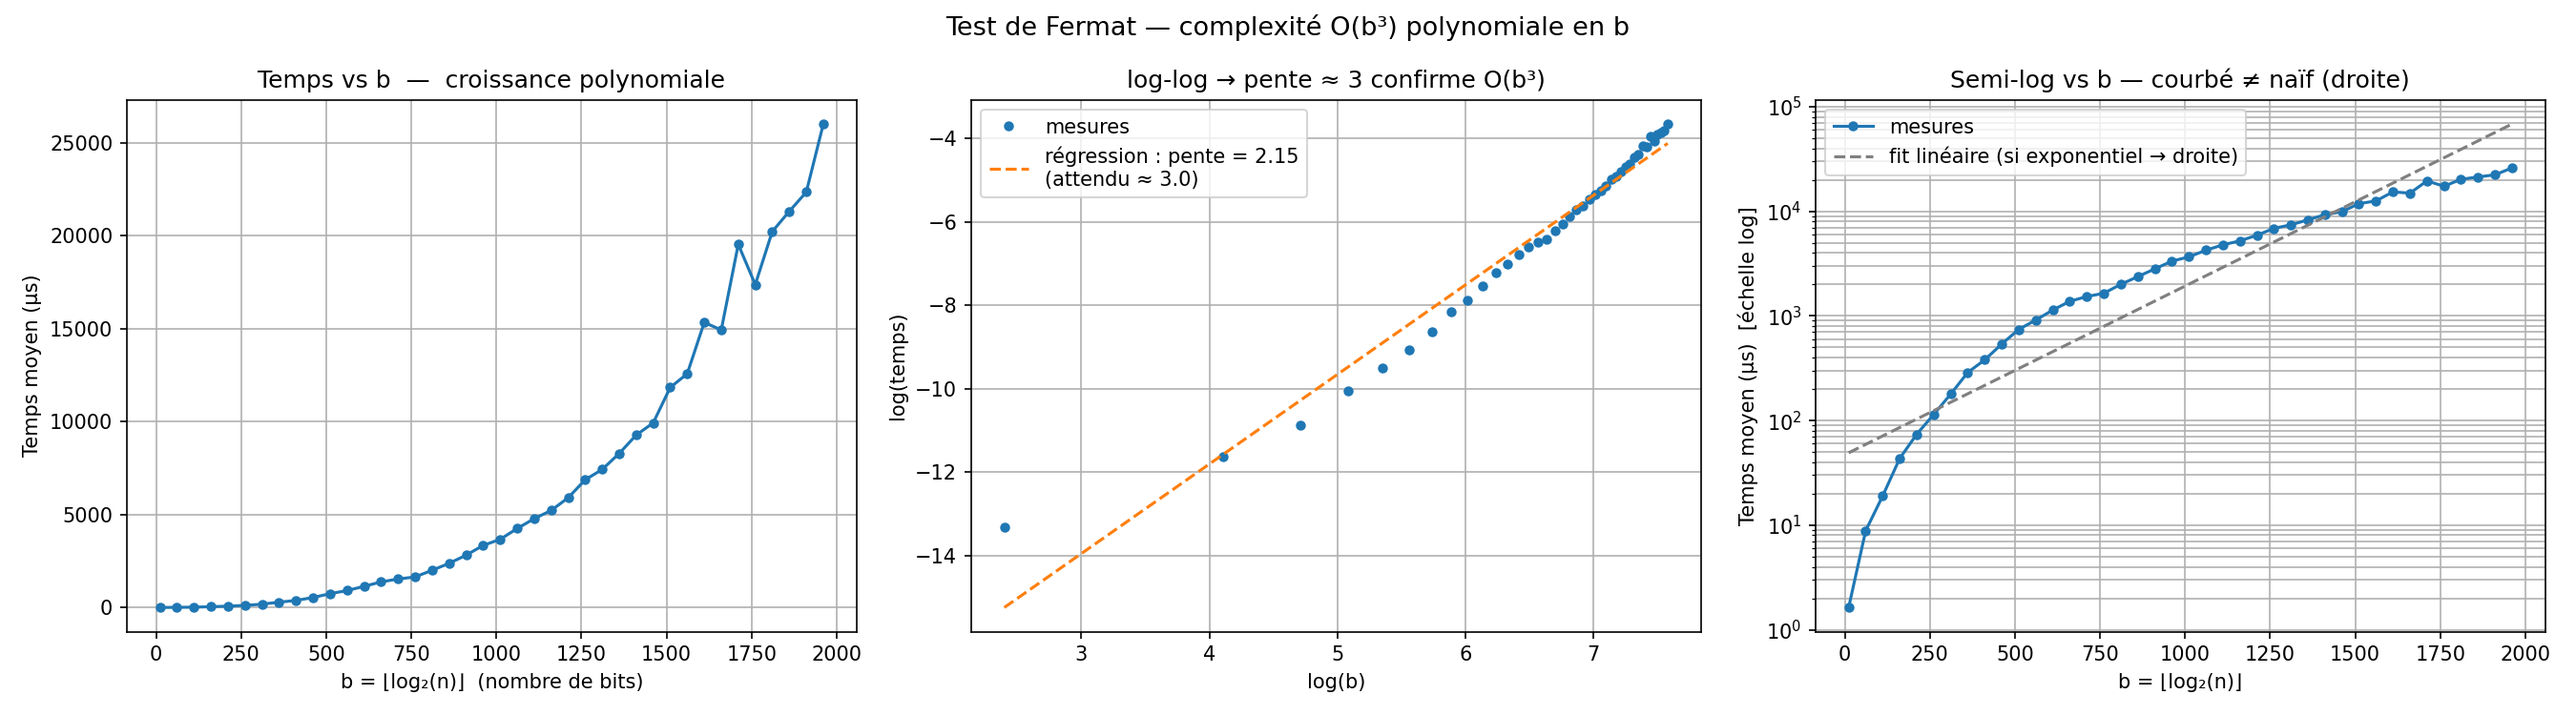
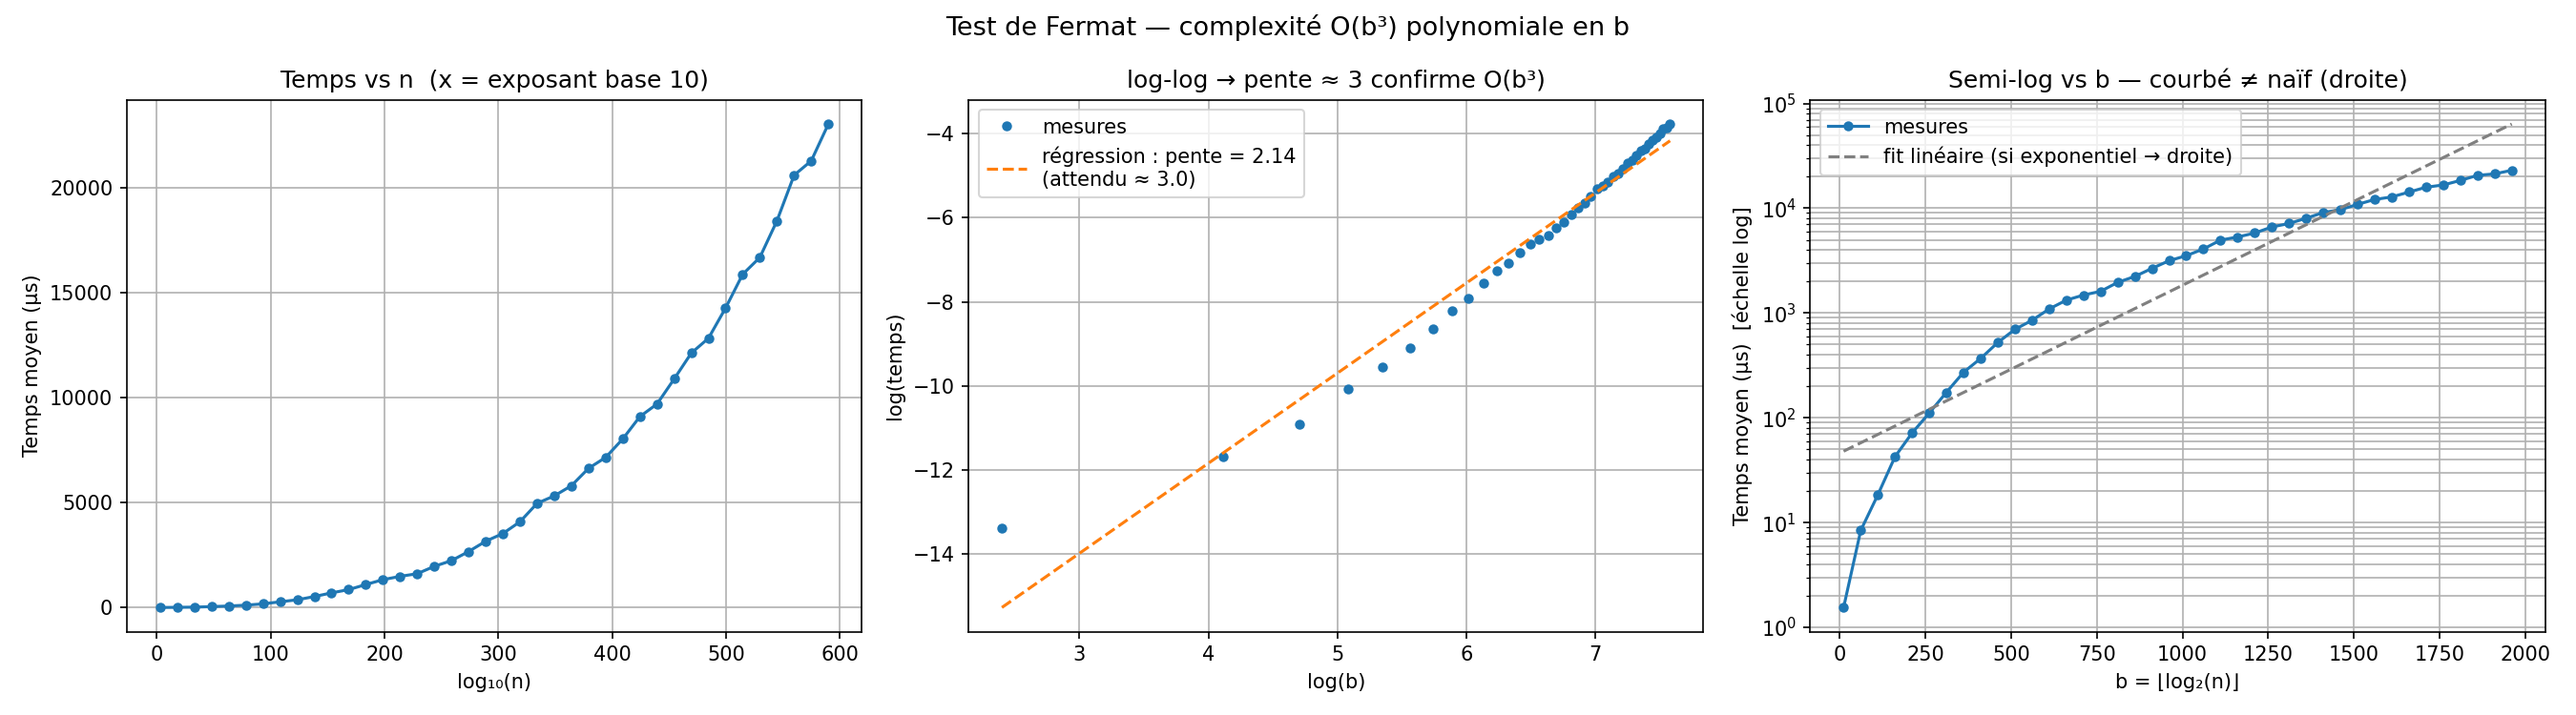
fermat complex

diff --git a/td2/fermat/complexity.py b/td2/fermat/complexity.py
@@ -7,6 +7,7 @@ Complexité attendue : O(b³) en nombre de bits b = ⌊log₂(n)⌋
   → temps polynomial en b  (≠ exponentiel pour le test naïf)
 """
 
+import math
 import time
 import os
 import sys
@@ -53,11 +54,12 @@ def run():
     # --- Graphiques ---
     fig, (ax1, ax2, ax3) = plt.subplots(1, 3, figsize=(18, 5))
 
-    # 1. Temps vs b (linéaire)
-    ax1.plot(bits, [t * 1e6 for t in times], "o-", linewidth=1.5, markersize=4)
-    ax1.set_xlabel("b = ⌊log₂(n)⌋  (nombre de bits)")
+    # 1. Temps vs n (exprimé en puissance de 10)
+    log10_n = [math.log10(n) for n in candidates]
+    ax1.plot(log10_n, [t * 1e6 for t in times], "o-", linewidth=1.5, markersize=4)
+    ax1.set_xlabel("log₁₀(n)")
     ax1.set_ylabel("Temps moyen (µs)")
-    ax1.set_title("Temps vs b  —  croissance polynomiale")
+    ax1.set_title("Temps vs n  (x = exposant base 10)")
     ax1.grid(True)
 
     # 2. log(temps) vs log(b) : droite de pente ≈ 3
